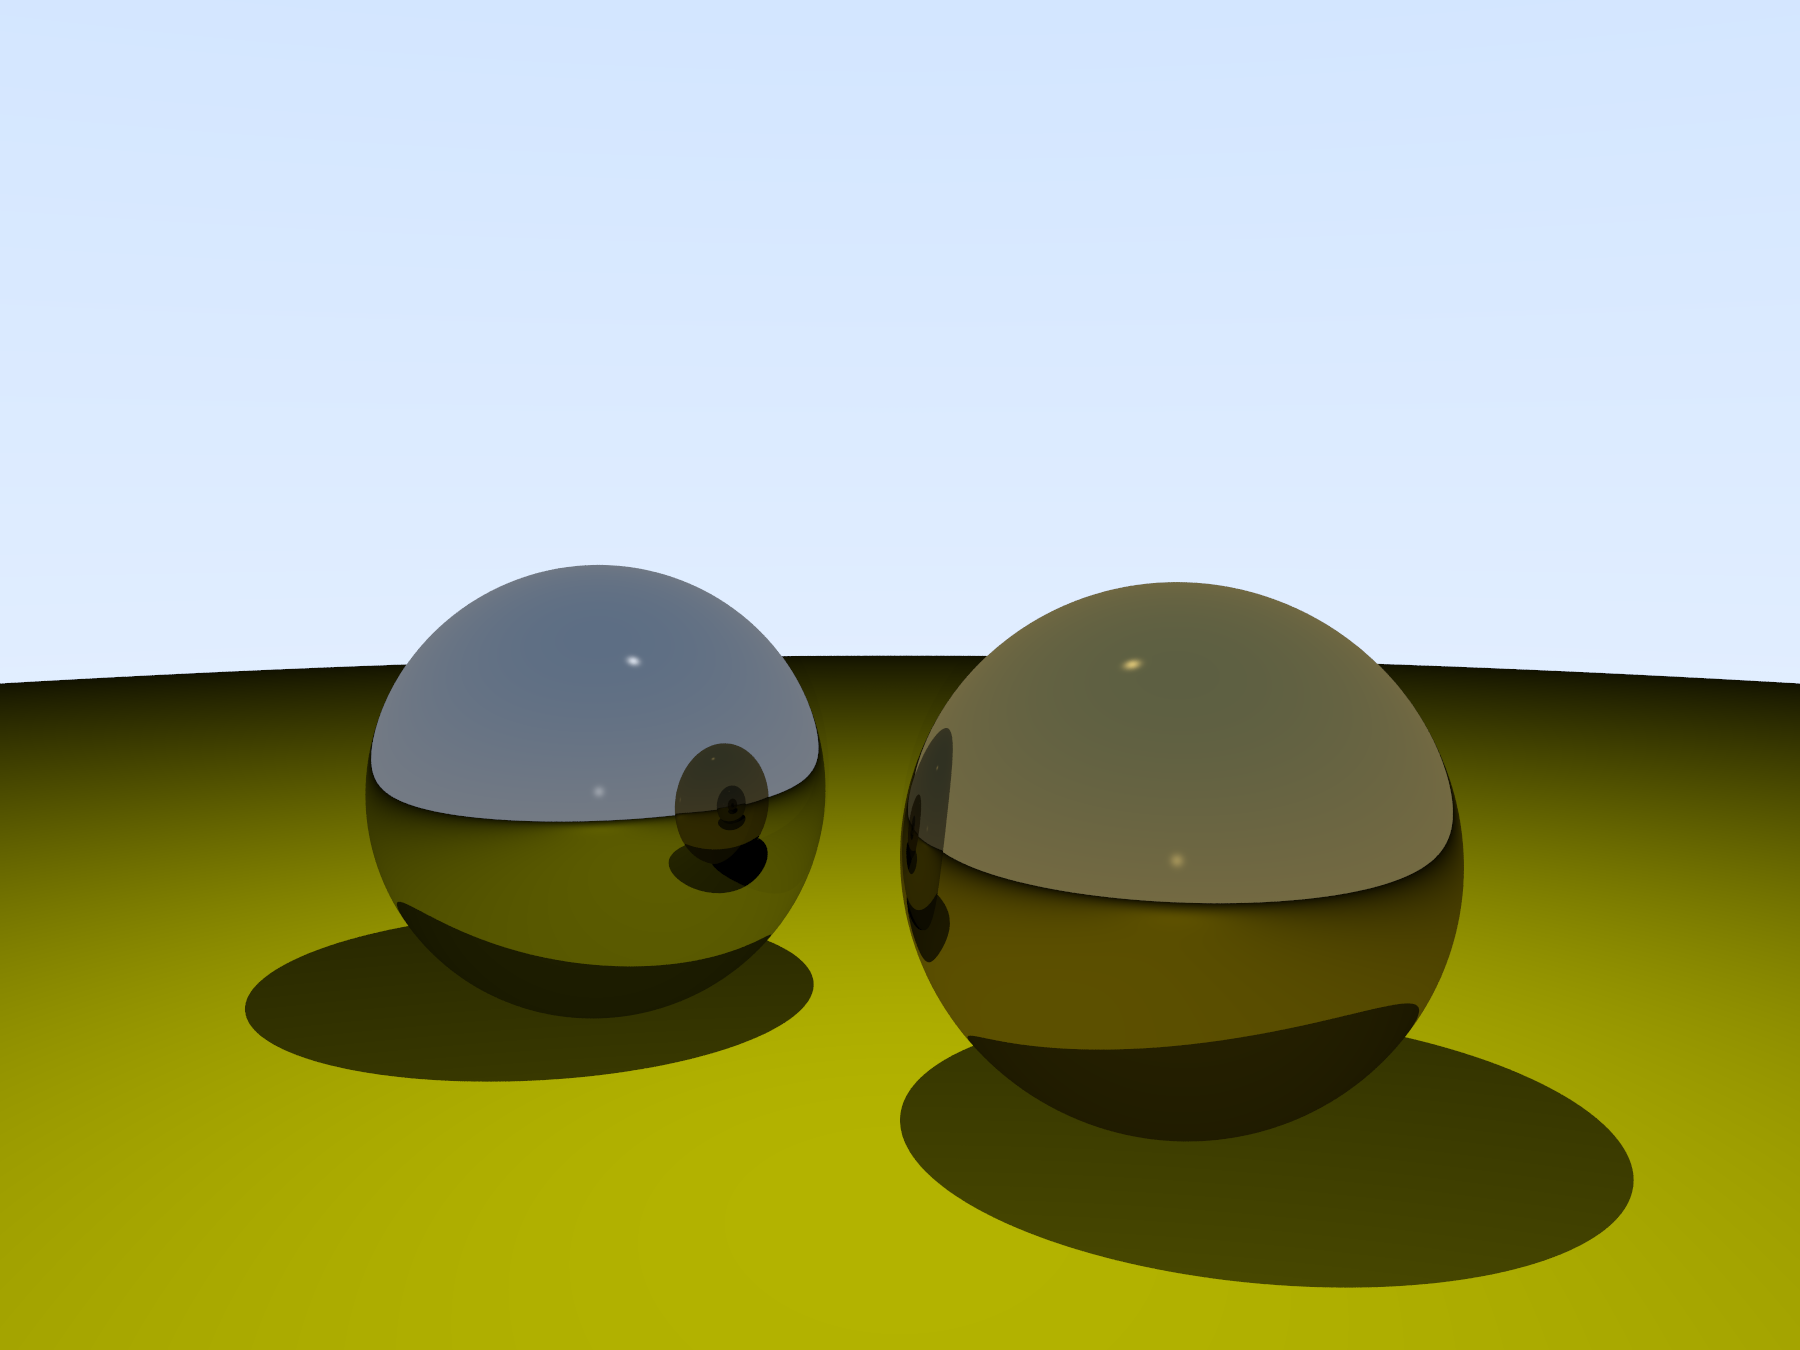
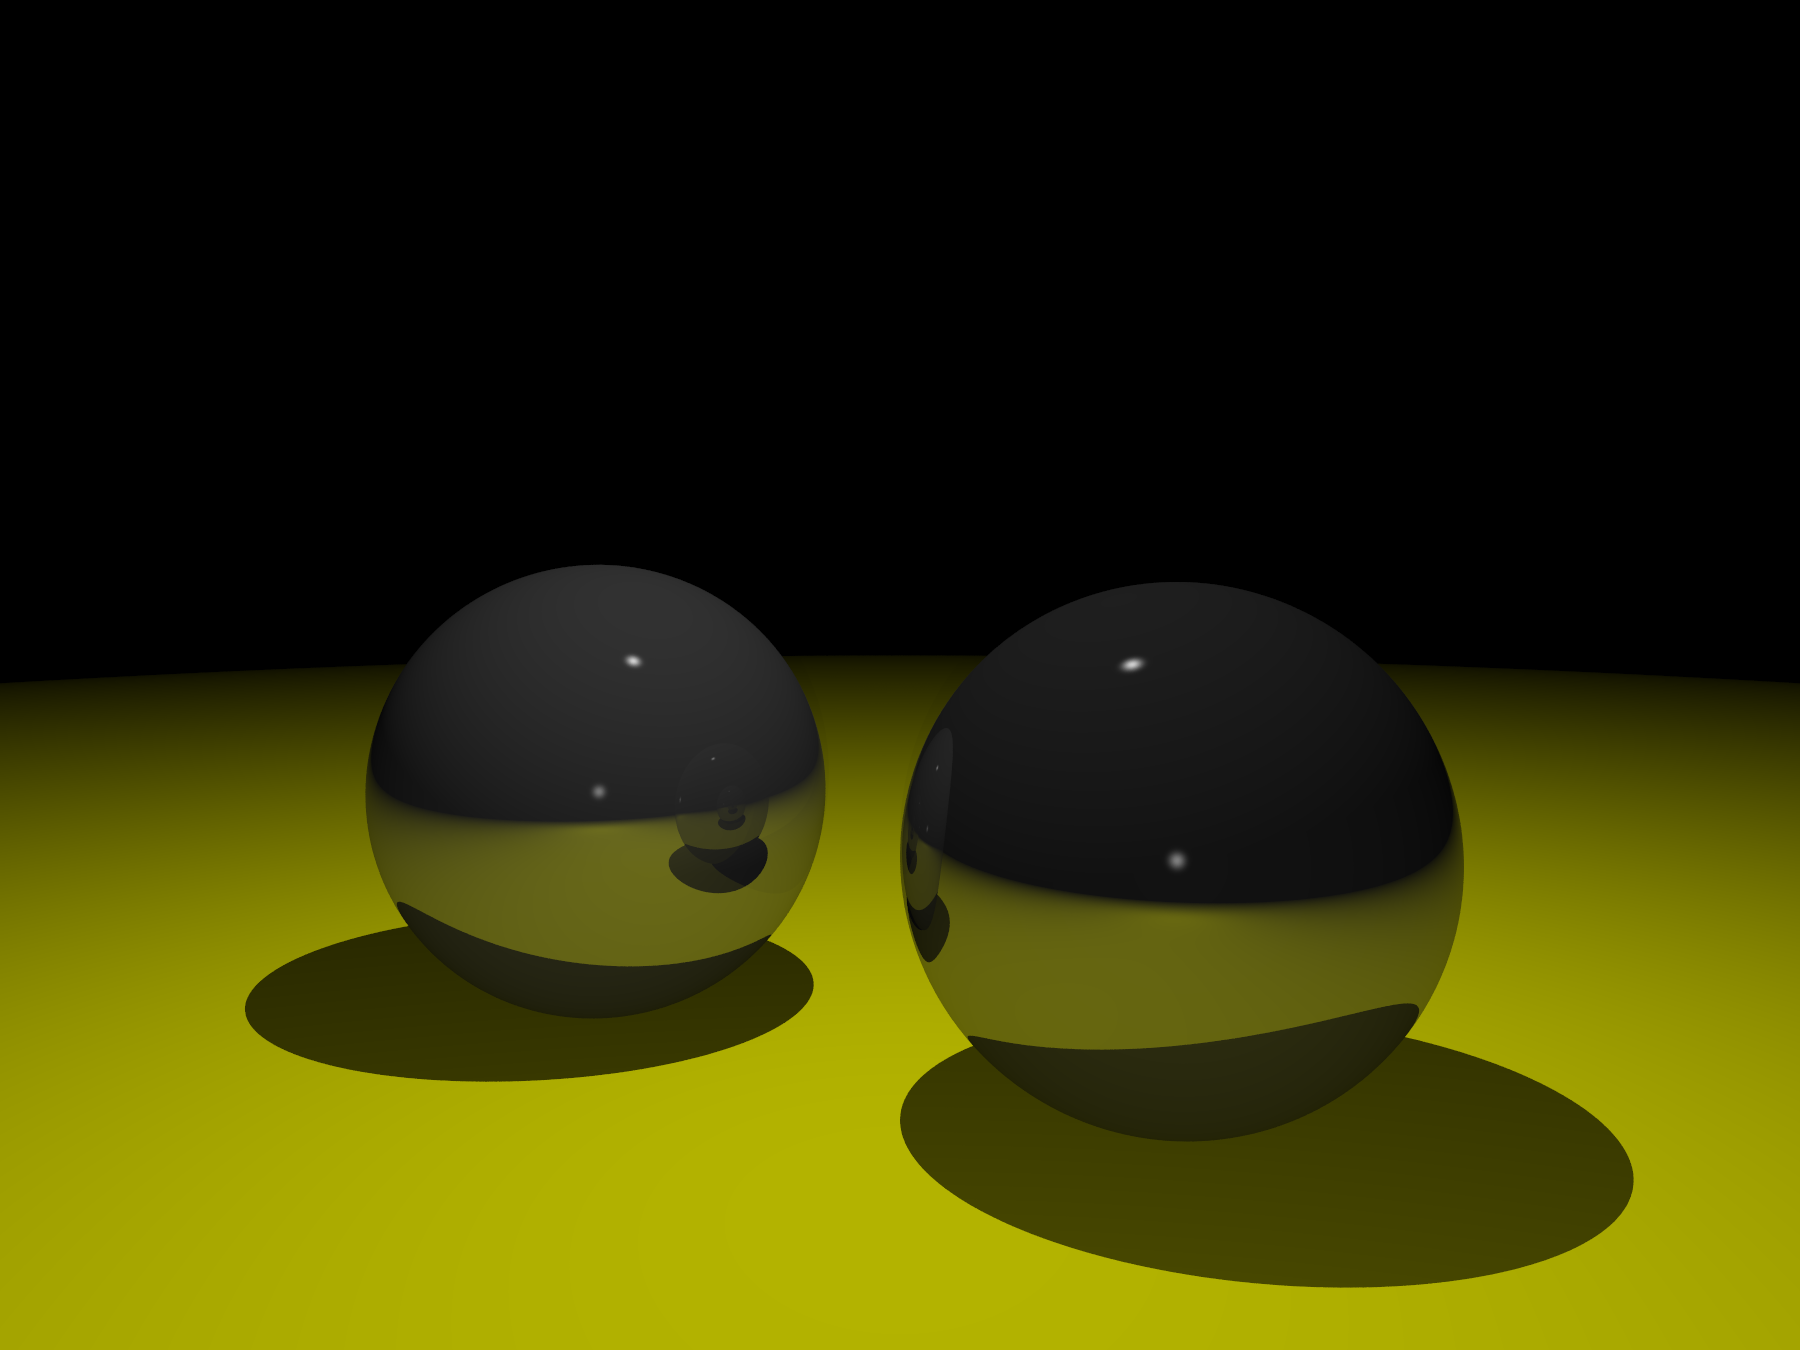
raytracer: minor edits

diff --git a/src/scene.cpp b/src/scene.cpp
@@ -29,39 +29,30 @@ void scene::add_material_model(std::shared_ptr<material_model> model) {
 }
 
 color3 scene::illuminance_v2(const ray& camera_ray, int depth) {
-    if (depth < 0) {
-        return BLACK;
-    }
-
     color3 illum = color3(0.0, 0.0, 0.0);
 
-    // Hit scene
+    if (depth < 0) {
+        return illum;
+    }
 
     std::optional<hit_record> rec = hit_scene(camera_ray, interval{ 0.001 });
 
     if (!rec.has_value()) {
         return illum;
-        // return get_sky(camera_ray);
     }
 
-    hit_record rec_value = rec.value();
-    auto point = rec_value.point;
+    hit_record rec_value    = rec.value();
 
+    auto point              = rec_value.point;
     auto ambient_color      = rec_value.mat->ambient_color;
-    auto ambient_color_e    = rec_value.mat->ambient_color_e;
+    auto emissive_color     = rec_value.mat->emissive_color;
     auto specular_exponent  = rec_value.mat->specular_exponent;
     auto specular_color     = rec_value.mat->specular_color;
     auto diffuse_color      = rec_value.mat->diffuse_color;
 
-    // Recursion
-
-    auto reflected = rec_value.specular_reflected(camera_ray);
-
     if (specular_color.length_squared() > 0.001) {
-        illum += 0.333 * specular_color * illuminance_v2(reflected, depth - 1);
+        illum += 0.333 * specular_color * illuminance_v2(rec_value.get_specular_reflected(camera_ray), depth - 1);
     }
-
-    // Main cycle by lamps
 
     for (auto lamp : lamps) {
         auto lamp_intensity = lamp->intensity;
@@ -81,11 +72,13 @@ color3 scene::illuminance_v2(const ray& camera_ray, int depth) {
             illum += ambient_color;
         }
 
-        if (ambient_color_e.length_squared() > 0.001) {
-            illum += ambient_color_e;
+        if (emissive_color.length_squared() > 0.001) {
+            illum += emissive_color;
         }
 
         if (specular_color.length_squared() > 0.001) {
+            auto reflected = rec_value.get_specular_reflected(camera_ray);
+
             illum += attenuation
                 * lamp_intensity
                 * specular_color
@@ -136,12 +129,12 @@ color3 scene::illuminance_v1(const ray& camera_ray, std::string mode, int depth)
         auto diffuse_color  = rec_value.mat->diffuse_color;
 
         if (specular_color.length_squared() > 0.001) {
-            auto reflected = rec_value.specular_reflected(camera_ray);
+            auto reflected = rec_value.get_specular_reflected(camera_ray);
             return specular_color * illuminance_v1(reflected, mode, depth - 1);
         }
 
         if (diffuse_color.length_squared() > 0.001) {
-            auto reflected = rec_value.diffuse_reflected();
+            auto reflected = rec_value.get_diffuse_reflected();
             return diffuse_color * illuminance_v1(reflected, mode, depth - 1);
         }
     }

diff --git a/src/hit_record.h b/src/hit_record.h
@@ -2,7 +2,7 @@
 #define HIT_RECORD_H
 
 class material_model;
-class hittable;
+class object;
 
 struct hit_record {
     point3 point;
@@ -11,29 +11,32 @@ struct hit_record {
     std::shared_ptr<material_model> mat;
 
     bool front_face;
-    inline void set_face_normal(const ray& ray, const vec3& outward_normal) {
-        front_face = dot(ray.direction(), outward_normal) < 0;
-        normal = front_face ? outward_normal : -outward_normal;
-    }
+    inline void set_front_face(const ray& ray, const vec3& outward_normal);
+    inline void set_normal(const vec3& outward_normal);
 
-    inline ray specular_reflected(const ray& ray_in);
-    inline ray diffuse_reflected();
+    inline ray get_specular_reflected(const ray& ray_in);
+    inline ray get_diffuse_reflected();
 };
 
-inline ray hit_record::specular_reflected(const ray& ray_in) {
-    auto direction = ray_in.direction();
-
-    return ray(
-        point,
-        unit_vector(direction - 2 * dot(direction, normal) * normal)
-    );
+inline void hit_record::set_front_face(const ray& ray, const vec3& outward_normal) {
+    front_face = dot(ray.direction(), outward_normal) < 0;
 }
 
-inline ray hit_record::diffuse_reflected() {
-    return ray(
-        point,
-        unit_vector(normal) + random_unit_vector()
-    );
+inline void hit_record::set_normal(const vec3& outward_normal) {
+    normal = front_face ? outward_normal : -outward_normal;
+}
+
+inline ray hit_record::get_specular_reflected(const ray& ray_in) {
+    auto reflected = ray_in.direction()
+        - 2 * dot(ray_in.direction(), normal) * normal;
+
+    return ray(point, unit_vector(reflected));
+}
+
+inline ray hit_record::get_diffuse_reflected() {
+    auto reflected = unit_vector(normal) + random_unit_vector();
+
+    return ray(point, unit_vector(reflected));
 }
 
 // inline vec3 refraction(const vec3& direction, const hit_record& rec, double refraction_index) {

diff --git a/src/sphere.h b/src/sphere.h
@@ -1,9 +1,9 @@
 #ifndef SPHERE_H
 #define SPHERE_H
 
-#include "hittable.h"
+#include "object.h"
 
-class sphere : public hittable {
+class sphere : public object {
     public:
         sphere(const point3& center, double radius, std::shared_ptr<material_model> model)
             : center(center)
@@ -34,13 +34,16 @@ class sphere : public hittable {
                 }
             }
 
-            hit_record  rec;
+            hit_record rec;
+
             rec.t       = root;
             rec.point   = ray.at(rec.t);
             rec.mat     = mat;
 
             vec3 outward_normal = (rec.point - center) / radius;
-            rec.set_face_normal(ray, outward_normal);
+
+            rec.set_front_face(ray, outward_normal);
+            rec.set_normal(outward_normal);
 
             return rec;
         }

diff --git a/src/utils/scene_reader.h b/src/utils/scene_reader.h
@@ -156,7 +156,7 @@ void scene_reader::read_materials(scene& scene, const std::string& filename) {
             }
 
             if (tokens[0] == "Ke") {
-                material_models[model_name]->ambient_color_e = color3(
+                material_models[model_name]->emissive_color = color3(
                     std::stod(tokens[1]),
                     std::stod(tokens[2]),
                     std::stod(tokens[3])

diff --git a/src/material.h b/src/material.h
@@ -5,7 +5,7 @@ class material_model {
     public:
         std::string name;
         color3 ambient_color        = color3(0, 0, 0);
-        color3 ambient_color_e      = color3(0, 0, 0);
+        color3 emissive_color       = color3(0, 0, 0);
         color3 diffuse_color        = color3(0, 0, 0);
         color3 specular_color       = color3(0, 0, 0);
         color3 albedo               = color3(1, 0, 0);

diff --git a/src/scene.h b/src/scene.h
@@ -32,7 +32,7 @@ class scene {
 
     private:
         std::vector<std::shared_ptr<lamp>> lamps;
-        std::vector<std::shared_ptr<hittable>> objects;
+        std::vector<std::shared_ptr<object>> objects;
         std::unordered_map<std::string, std::shared_ptr<material_model>> materials;
 
         std::optional<hit_record> hit_scene(const ray& ray, const interval& interval);

diff --git a/src/object.h b/src/object.h
@@ -7,9 +7,9 @@
 #include "interval.h"
 #include "hit_record.h"
 
-class hittable {
+class object {
     public:
-        virtual ~hittable() = default;
+        virtual ~object() = default;
         virtual std::optional<hit_record> hit(const ray& ray, const interval& interval) const = 0;
 };
 
